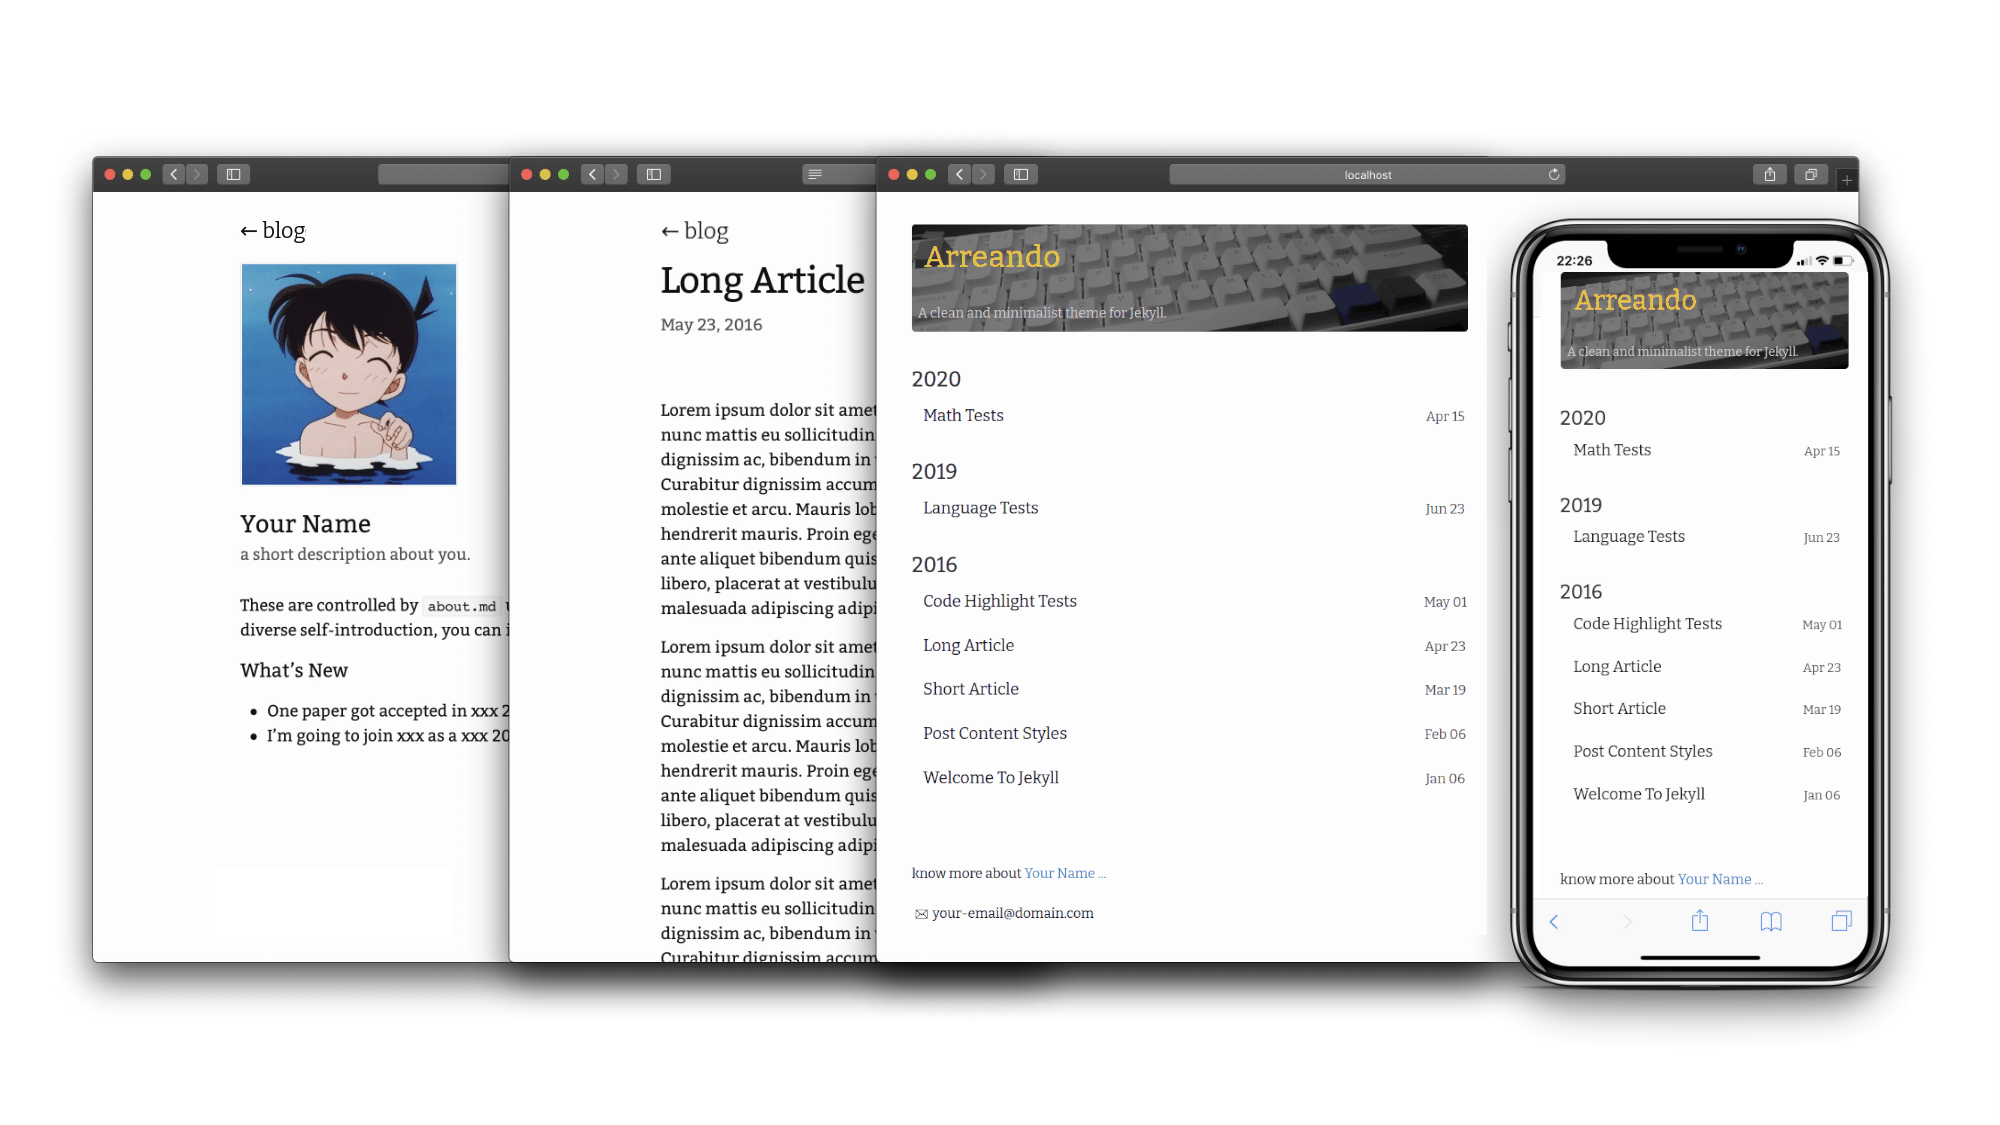
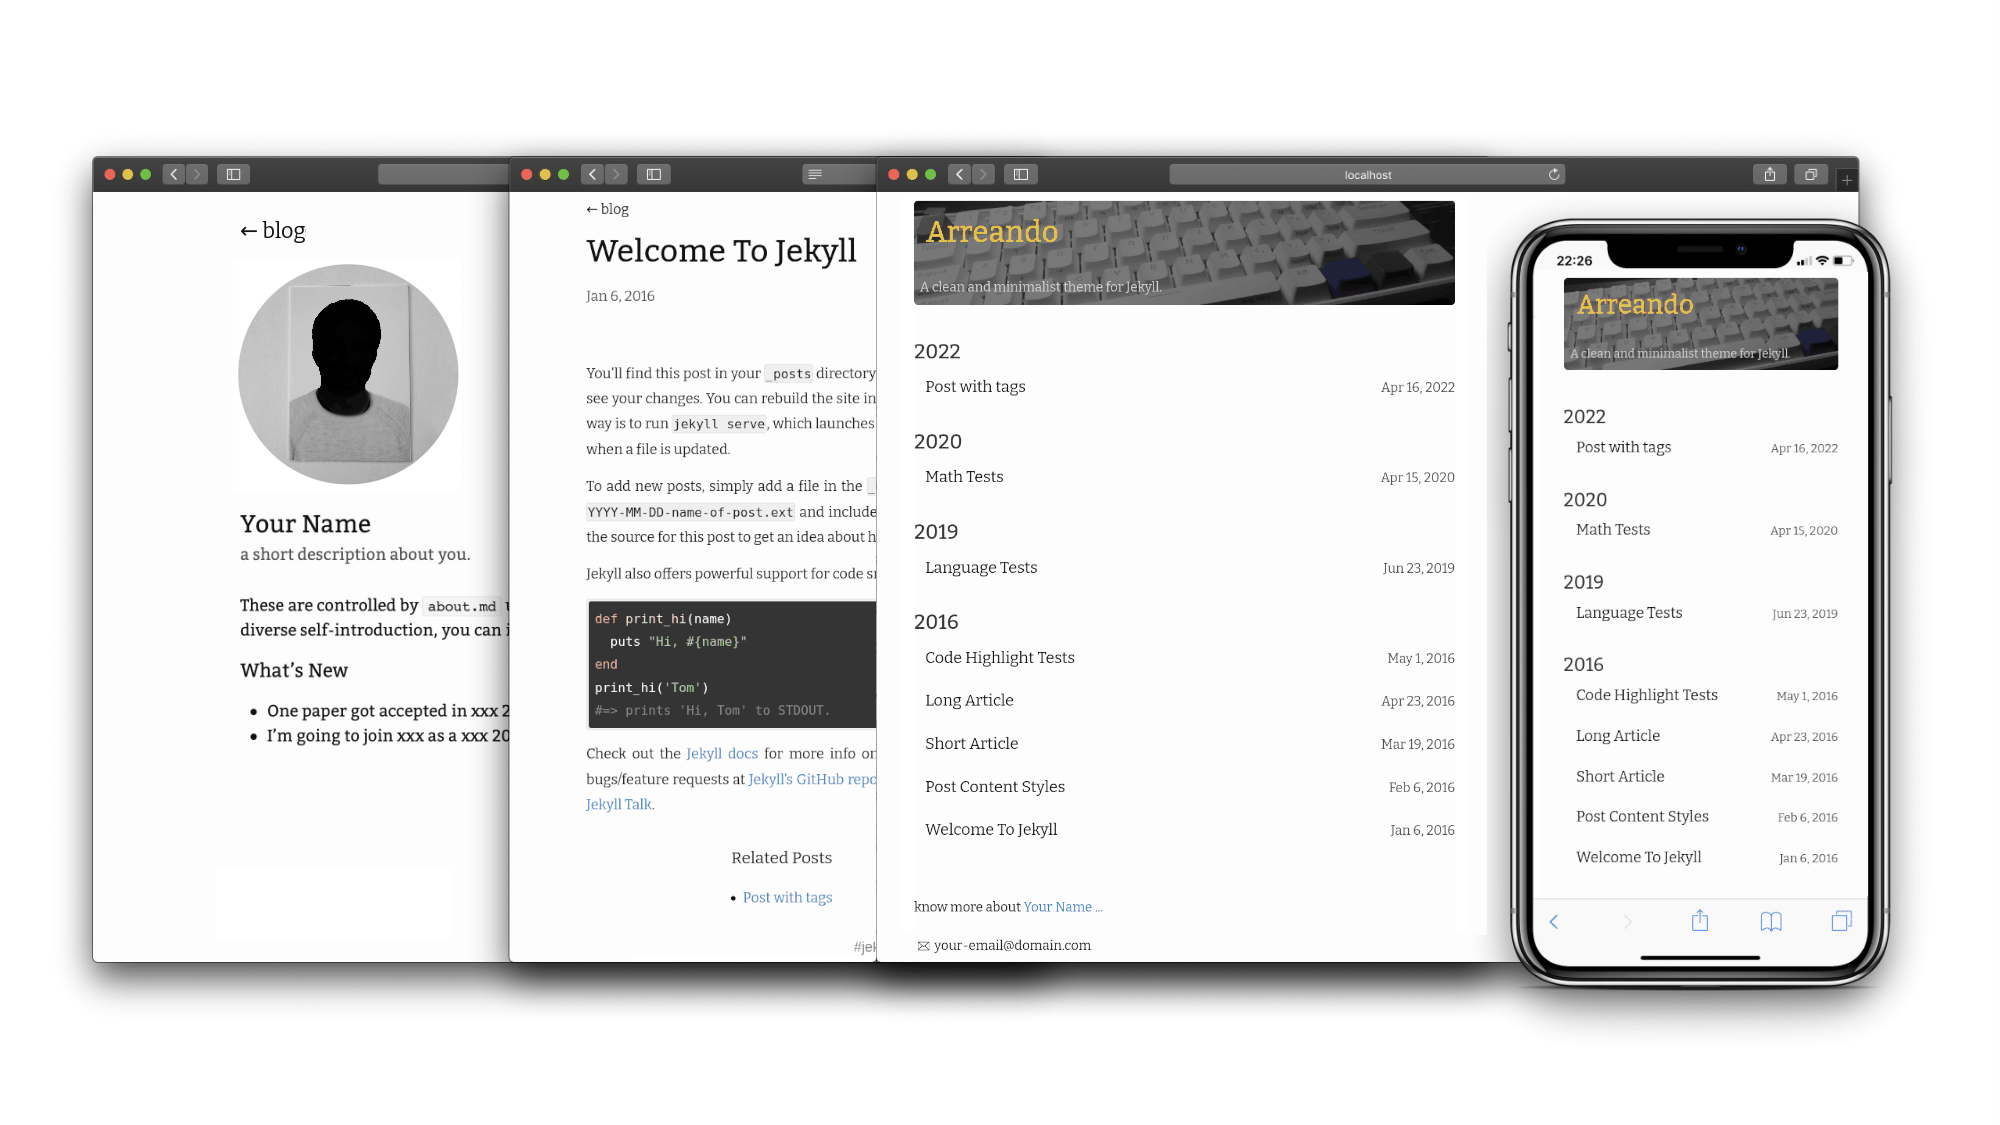
tags

diff --git a/_layouts/default.html b/_layouts/default.html
@@ -2,7 +2,7 @@
 <html lang="{{ page.lang | default: site.lang | default: "en" }}">
         {%- include head.html -%}
     <body>
-    <button name="switch" id="theme-switch" title="Toggle dark or light colorscheme">
+    <button name="theme-switch" id="theme-switch" title="Toggle dark or light colorscheme">
     <svg id="moon" xmlns="http://www.w3.org/2000/svg" class="theme-icon" width="18" height="18" viewBox="0 0 1800 1800"><path d="M1463.034 1307.56c-36 6-73 9-110 9-371 0-672-301-672- 672 0-127 37-251 104-357-266 79-456 323-456 613 0 353 287 640 640 640 193 0 374-88 494-233zm203-85c-125 271-399 446-697 446-423 0-768-345-768-768 0-415 325-752 739-767 28-1 51 15 61 39 11  25 4 54-15 72-114 104-177 246-177 400 0 300 244 544 544 544 79 0 155-17 228-51 25-11 53-6 72 13s24 48 13 72z"/></svg>
     </button>
     <main class="page-content" aria-label="Content">
@@ -11,5 +11,82 @@
         </div>
     </main>
         {%- include footer.html -%}
+    <script
+        data-token="p.eyJ1IjogIjE4OTA0NmVkLWY1NjYtNGU5MS1hNmU3LWU0MDcxOGNkZmYwZCIsICJpZCI6ICJkNTY1ZTA1Ny03NmEzLTQyZjgtYjA5Yi0yZWQ5MzU3Y2JlMmIifQ.ULpoiOdG6SX-hDtFRx6Hvzoz9fzUJjzhNlpNZxd86qc"
+        data-source="blog_events_v0" src="https://cdn.tinybird.co/static/js/t.js">
+    </script>
+    <script>
+    function toggle() {
+        const body = document.body
+        const theme = localStorage.getItem('theme')
+        if (theme && theme === 'dark-mode') {
+          body.classList.remove('dark-mode')
+          body.classList.add('light-mode')
+          localStorage.setItem('theme', 'light-mode')
+        } else {
+          body.classList.add('dark-mode')
+          body.classList.remove('light-mode')
+          localStorage.setItem('theme', 'dark-mode')
+        }
+    }
+    (function() {
+      const theme = localStorage.getItem('theme') || 'light-mode'
+      const body = document.body
+      const toggleButton = document.getElementById('theme-switch')
+      body.classList.add(theme)
+      if (theme && theme === 'light-mode') {
+        toggleButton.setAttribute('checked', true)
+      }
+      toggleButton.addEventListener('change', toggle)
+    })()
+    /*
+    function track() {
+        const url = '/.netlify/functions/track'
+        const currentDate = new Date(Date.now())
+        const theme = localStorage.getItem('theme')
+        const data = {
+            'event': 'load',
+            'timestamp': currentDate.toISOString(),
+            'language': navigator.language || 'unknown',
+            'languages': JSON.stringify(navigator.languages) || 'unknown',
+            'useragent': navigator.userAgent || 'unknown',
+            'referrer': document.referrer || 'unknown',
+            'href': location.href || 'unknown',
+            'origin': location.origin || 'unknown',
+            'screenx': window.screenX || 0,
+            'screeny': window.screenY || 0,
+            'theme': theme
+        }
+        fetch(url, {
+            method: 'POST',
+            headers: {
+              'Accept': 'application/json',
+            },
+            body: JSON.stringify(data)
+        })
+    }
+    (function() {
+      window.onload = track
+    })()
+    */
+    </script>
+    <script>
+          const currentDate = new Date(Date.now())
+          const theme = localStorage.getItem('theme')
+          const data = {
+            'event': 'load',
+            'timestamp': currentDate.toISOString(),
+            'language': navigator.language || 'unknown',
+            'languages': JSON.stringify(navigator.languages) || 'unknown',
+            'useragent': navigator.userAgent || 'unknown',
+            'referrer': document.referrer || 'unknown',
+            'href': location.href || 'unknown',
+            'origin': location.origin || 'unknown',
+            'screenx': window.screenX || 0,
+            'screeny': window.screenY || 0,
+            'theme': theme
+          }
+        tinybird('pageload', data)
+    </script>
     </body>
 </html>

diff --git a/tags.html b/tags.html
@@ -1,0 +1,52 @@
+---
+layout: default
+title: Tags
+---
+<section class="tags-section">
+    <a href="#" style="text-decoration: none"><h1 class="post-title" style="color: #888">tags</h1></a>
+
+    {% assign tags_list = site.tags %}
+
+    {% if tags_list.first[0] == null %}
+        {% for tag in tags_list %}
+            <a class="post-tag black-link" href="#{{ tag | slugify }}">{{ tag }}</a>
+        {% endfor %}
+    {% else %}
+        {% for tag in tags_list %}
+            <a class="post-tag black-link" href="#{{ tag[0] | slugify }}">{{ tag[0] }}</a>
+        {% endfor %}
+    {% endif %}
+
+    {% assign tags_list = nil %}
+</section>
+
+<hr>
+
+<section class="post-list">
+    {% for tag in site.tags  %}
+    <h2 class="post-category" style="font-family: Arial" id="{{ tag[0] | slugify }}">#{{ tag[0] }}</h2>
+
+    <ul>
+        {% assign pages_list = tag[1] %}
+        {% for post in pages_list reversed %}
+            {% if post.title != null %}
+                {% if group == null or group == post.group %}
+                    <li>
+                        <a class="black-link post-link-layout" href="{{ post.url | relative_url }}">
+                          {{ post.title | escape }}
+                        </a>
+                        {%- assign date_format = site.moving.date_format | default: "%b %-d, %Y" -%}
+                        <span class="post-meta">
+                          {{ post.date | date: date_format }}
+                        </span>
+                    </li>
+                {% endif %}
+            {% endif %}
+        {% endfor %}
+        {% assign pages_list = nil %}
+        {% assign group = nil %}
+    </ul>
+
+    <div class="breaker"></div>
+    {% endfor %}
+</section>

diff --git a/_layouts/about.html b/_layouts/about.html
@@ -7,19 +7,19 @@ layout: default
     <title>{{ site.author }}</title>
   </head>
   <div class="post-back">
-    <a class="black-link" href="{{ site.url | relative_url }}"> ← {{ site.arreando.back_to }} </a>
+    <a class="black-link" href="{{ site.url | relative_url }}"> ← {{ site.moving.back_to }} </a>
   </div>
   <div class="about-header">
-    {%- if site.arreando.avatar_url -%}
-    <a href="{{ site.url | relative_url }}"><img class="about-avatar" src="{{ site.arreando.avatar_url }}" /></a>
+    {%- if site.moving.avatar_url -%}
+    <a href="{{ site.url | relative_url }}"><img class="about-avatar" src="{{ site.moving.avatar_url }}" /></a>
     {%- endif -%} {%- if site.author -%}
     <div class="about-info">
       <div class="about-your-name">
         {{ site.author | escape }}
       </div>
-      {%- endif -%} {%- if site.arreando.about_you -%}
+      {%- endif -%} {%- if site.moving.about_you -%}
       <p class="about-description">
-        {{ site.arreando.about_you | escape }}
+        {{ site.moving.about_you | escape }}
       </p>
       {%- endif -%} {%- include social.html -%}
     </div>

diff --git a/_layouts/home.html b/_layouts/home.html
@@ -24,7 +24,7 @@ layout: default
       {% capture next_year %}{{ post.previous.date | date: "%Y" }}{% endcapture %}
 
       {% if forloop.first %}
-      <h2 id="{{ this_year }}-ref" class="post-year">{{this_year}}</h2>
+      <h2 id="{{ this_year }}-ref" class="post-category">{{this_year}}</h2>
       <ul>
       {% endif %}
 
@@ -43,7 +43,7 @@ layout: default
       {% else %}
           {% if this_year != next_year %}
           </ul>
-          <h2 id="{{ next_year }}-ref" class="post-year">{{next_year}}</h2>
+          <h2 id="{{ next_year }}-ref" class="post-category">{{next_year}}</h2>
           <ul>
           {% endif %}
       {% endif %}

diff --git a/_sass/arreando/_layout.scss b/_sass/arreando/_layout.scss
@@ -212,7 +212,7 @@
   }
 }
 
-.post-year {
+.post-category {
   margin-top: 2rem;
   margin-bottom: 0.25rem;
   font-weight: 700;
@@ -326,10 +326,26 @@
 }
 
 .related {
+  margin-bottom: $spacing-unit;
   padding-left: calc((#{$content-width} - #{$spacing-unit})/4);
   @media screen and (min-width: $on-large) {
     padding-left: calc((#{$content-width} - #{$spacing-unit} * 2)/4);
   }
+}
+
+.post-tags {
+  text-align: center;
+}
+
+.post-tag {
+font-family: Arial;
+color: grey;
+margin-right: $spacing-unit / 5;
+}
+.post-tag::before { content: "#"; }
+
+.tags-section {
+  text-align: center;
 }
 
 .social-media-list {

diff --git a/_layouts/post.html b/_layouts/post.html
@@ -69,5 +69,13 @@ layout: default
       {% include related.html %}
   {% endif %}
 
+  {% if site.show-tags %}
+      <div class="post-tags">
+          {% for tag in page.tags %}
+              <a class="post-tag black-link" href="{{ site.url }}/tags/#{{ tag | slugify }}">{{ tag }}</a>
+          {% endfor %}
+      </div>
+  {% endif %}
+
   <a class="u-url" href="{{ page.url | relative_url }}" hidden></a>
 </article>

diff --git a/_includes/social.html b/_includes/social.html
@@ -1,4 +1,4 @@
-{%- assign social = site.arreando.social_links -%}
+{%- assign social = site.moving.social_links -%}
 
 <ul class="social-media-list">
   {%- if social.twitter -%}

diff --git a/_sass/arreando.scss b/_sass/arreando.scss
@@ -41,4 +41,4 @@ $on-large: $on-laptop !default;
 }
 
 // Import partials.
-@import "moving/base", "moving/layout";
+@import "arreando/base", "arreando/layout";

diff --git a/assets/css/main.scss b/assets/css/main.scss
@@ -2,5 +2,5 @@
 sitemap: false
 ---
 
-@import "moving";
+@import "arreando";
 @import url('https://fonts.googleapis.com/css?family=Bitter&display=swap');

diff --git a/_posts/2016-04-23-super-long-article.md b/_posts/2016-04-23-super-long-article.md
@@ -2,6 +2,8 @@
 layout: post
 title: "Long Article"
 categories: misc
+tag:
+- test
 ---
 
 Lorem ipsum dolor sit amet, consectetur adipiscing elit. Fusce bibendum neque eget nunc mattis eu sollicitudin enim tincidunt. Vestibulum lacus tortor, ultricies id dignissim ac, bibendum in velit. Proin convallis mi ac felis pharetra aliquam. Curabitur dignissim accumsan rutrum. In arcu magna, aliquet vel pretium et, molestie et arcu. Mauris lobortis nulla et felis ullamcorper bibendum. Phasellus et hendrerit mauris. Proin eget nibh a massa vestibulum pretium. Suspendisse eu nisl a ante aliquet bibendum quis a nunc. Praesent varius interdum vehicula. Aenean risus libero, placerat at vestibulum eget, ultricies eu enim. Praesent nulla tortor, malesuada adipiscing adipiscing sollicitudin, adipiscing eget est.
